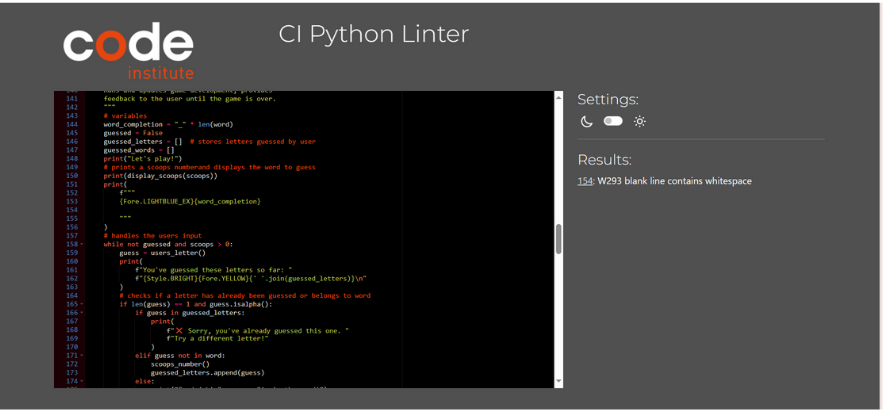
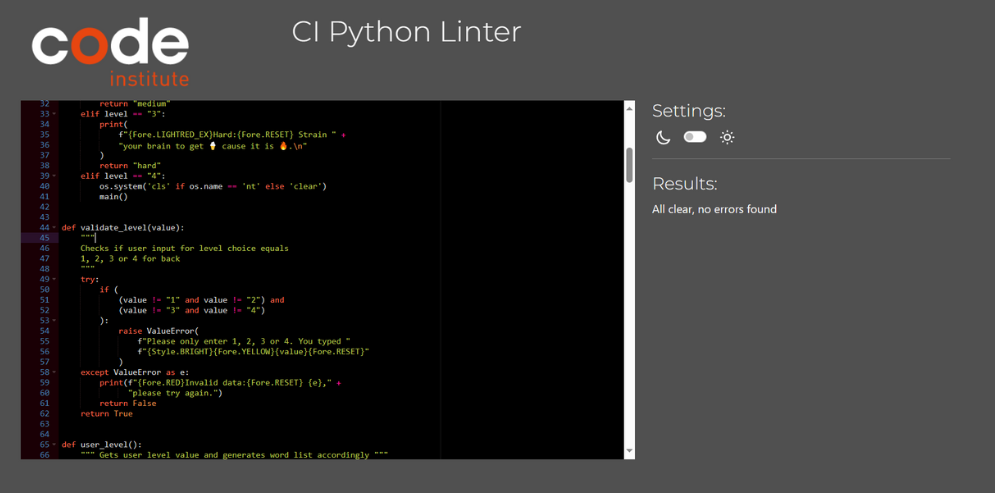
Fix bug by separating the code piece in two lines

Changed region(s): [[0.0, 0.0, 1.0, 1.0]]

diff --git a/run.py b/run.py
@@ -47,15 +47,17 @@ def validate_level(value):
     1, 2, 3 or 4 for back
     """
     try:
-        if (value != "1") and (value != "2") and (value != "3"
-        and (value != "4")):
+        if (
+            (value != "1" and value != "2") and
+            (value != "3" and value != "4")
+        ):
             raise ValueError(
                 f"Please only enter 1, 2, 3 or 4. You typed "
                 f"{Style.BRIGHT}{Fore.YELLOW}{value}{Fore.RESET}"
             )
     except ValueError as e:
         print(f"{Fore.RED}Invalid data:{Fore.RESET} {e}," +
-            " please try again.")
+            "please try again.")
         return False
     return True
 
@@ -151,7 +153,7 @@ def start_game():
     print(
         f"""
         Guess this word: {Fore.LIGHTBLUE_EX}{word_completion}
-        
+
         """
     )
     # handles the users input
@@ -280,7 +282,7 @@ def restart_game():
     """ Asks player if he wants to play again """
     global scoops, word
     scoops = 6  # reset scoops to 6
-    
+
     while True:
         print(
             f"Do you want to play "

diff --git a/intro.py b/intro.py
@@ -20,7 +20,7 @@ RULES_PART_1 = """
 =========
 """
 RULES_PART_2 = """
-✅  elect your skill level. 
+✅  Select your skill level. 
 
 ✅  The word you have to guess will get longer 
 as your skill level increases.
@@ -50,8 +50,8 @@ Do not lose, beacuse it is 🔥 outside.
 """
 
 RULES_PART_6 = """
-✅  Cheer up! You can try again 😉, 
-simply restart the game.
-Just press the RUN PROGRAM at the top.
+✅  Cheer up! You can try again 😉,  
+press the RUN PROGRAM at the top or
+type "y" to play again.
 Good luck! 😎
 """

diff --git a/six_scoops.py b/six_scoops.py
@@ -1,4 +1,4 @@
-# choses ice scream ilustration
+# chooses ice scream ilustration
 def display_scoops(scoops):
     stages = [
           """

diff --git a/README.md b/README.md
@@ -7,6 +7,29 @@ Six Scoops is a terminal-based alternative to a hangman game for kids. This game
 
 ---
 
+## How to Play
+
+ - ✅ Select your skill level. 
+
+ - ✅ The word you have to guess will get longer as your skill level increases.
+
+ - ✅ Level:
+    - Easy Level: Short words (3 letters) for beginners.
+    - Medium Level: 4-letter words for those seeking a challenge.
+    - Hard Level: 5-letter challenging words for experts.
+
+ - ✅ Then try and guess the word one letter at a time before you lose all six scoops of ice cream.
+
+ - ✅ Here is a hint: all words are related to summer.
+
+ - ✅ You will start off with 6 scoops of ice cream. 
+
+ - ✅ For each wrong guess you lose one scoop. And you can play until the cane is empty.
+
+ - ✅ To play the game again from the beginning press simply restart the game at the top; or type "y" on my question at the end to start from choosing the level.
+
+ ---
+
 ## User Stories
 
 **As a user I want to**
@@ -43,6 +66,15 @@ The following flowchart is created with [lucidchart](www.lucidchart.com). It vis
 ![Flowchart](assets/images/flowchart-six-scoops.jpeg)
 
 ---
+##Data Model
+
+Within the application, the following python script files are defined:
+
+ - six_scoops.py - contains the function that holds six ice cream scoops graphs.
+ - intro.py - contains logo and rules parts variables.
+ - run.py - the main file that runs the game and contains functions to validate level and user typed letter, start and restart game.
+
+ ---
 
 ## Design
 
@@ -68,31 +100,31 @@ As the kids do not like reading, I colored the important words in the questions 
 
 ### Existing Features
 
-Logo
+***Logo***
 
  - Displays game title using ASCII
 
  ![Logo image](assets/images/logo.png)
 
-Introduction
+***Introduction***
 
  - Displays an introduction word to the user and asks whether he wants to read the rules or not.
 
  ![Inro image](assets/images/intro-word.png)
 
- Rules
+ ***Rules***
 
  - Displays the user the rules in several parts with time delays after clearing the terminal.
 
  ![Rules image](assets/images/rules-image.png)
 
- Level Choice and Go Back Option
+ ***Level Choice and Go Back Option***
 
  - Allows user to choose one of three difficulty levels or go back to main screen.
 
  ![Level and go back image](assets/images/level-back-image.png)
 
- Invalid Data
+ ***Invalid Data***
 
  - Informs the user if input data was not valid.
  - Tells the user which data type is required and what the user typed incorrectly.
@@ -100,38 +132,38 @@ Introduction
 
 ![Invalid data image](assets/images/invalid-data.png)
 
-Display of Used Letters
+***Display of Used Letters***
 
  - Lists the letters that the user has guessed.
 
  ![List of used letters](assets/images/guessed-letters.png)
 
-Duplicated Letter Message
+***Duplicated Letter Message***
 
  - Informs the user when a letter guess is duplicate.
  - Tell user to guess a different letter.
 
 ![Duplicated letter](assets/images/duplicated-letter.png)
 
-Word Display
+***Word Display***
 
  - Displays all correctly guessed letters and builds the entire word.
 
  ![Duplicated letter](assets/images/word-display.png)
 
- Scoops Count
+ ***Scoops Count***
 
  - Informs user of remaining scoops of ice cream after each wrong guess.
 
  ![Scoops count](assets/images/scoops-count.png)
 
- Six Scoops Ice Cream Graphics
+ ***Six Scoops Ice Cream Graphics***
 
  - Shows six scoops of ice cream and takes one away for each wrong guess.
 
  ![Six scoops taking away](assets/images/scoops-graph.png)
 
- Won Message, Lost Message, and Restart Option:
+ ***Won Message, Lost Message, and Restart Option:***
 
  Won Message
 
@@ -204,8 +236,7 @@ The program was tested constantly during its development process.
  - [PEP8 CI Python Validator](https://pep8ci.herokuapp.com/):
 
  - run.py
-    - Error: On line 13 the code line contains whitespace
-    - Solution: The whitespace is used for the design purpose and is not deleted intentionally.
+    - Error: none.
 
  ![file run.py testing](assets/images/run-validate.png)
 
@@ -246,6 +277,10 @@ The program was tested constantly during its development process.
 | be able to play the game again after it is finished | can choose yes or no options |
 | be able to restart the game or not when after it's finished | can choose between a Y/N option to restart the game after finishing |
 
+### Manual Testing
+
+The functionality of the game was tested by me right away after writing the new function.
+
 ---
 
 ## Bugs
@@ -268,9 +303,9 @@ def scoops_number():
         )
 ```
 
-2. In ```restart_game()``` function I wanted that the user play the game again if he chooses "yes" option. If the user types "y" he should start the game from choosing the level. The problem was that I wrote to start from function ```main()```. It did not work as well because I forgot to reset ```scoops = ``` to 6, the global variable.
+ 2. In ```restart_game()``` function I wanted that the user play the game again if he chooses "yes" option. If the user types "y" he should start the game from choosing the level. The problem was that I wrote to start from function ```main()```. It did not work as well because I forgot to reset ```scoops = ``` to 6, the global variable.
 
- *Solution:* I added global variable to the function and reseet it to 6. Then I added the needed functions to start from choosing the level  from ```main()``` function.
+  *Solution:* I added global variable to the function and reseet it to 6. Then I added the needed functions to start from choosing the level  from ```main()``` function.
 
  ```
  def restart_game():
@@ -384,6 +419,8 @@ as provided with the Python Essentials template.
 
  ![Connect to GitHub](assets/images/connect-repo.png)
 
+---
+
 ## Credits
 
 ### Data
@@ -403,6 +440,7 @@ as provided with the Python Essentials template.
 
 - Colors were used from Built-in module [Colorama](https://github.com/techwithtim/ColoredTextInPython/blob/main/main.py)
 
+---
 
 ## Acknowledgements
 
